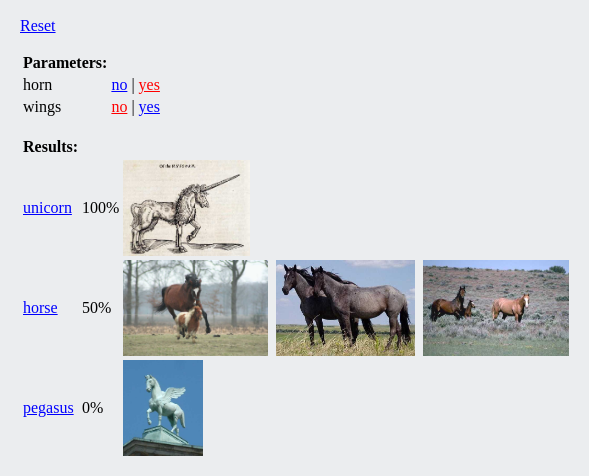
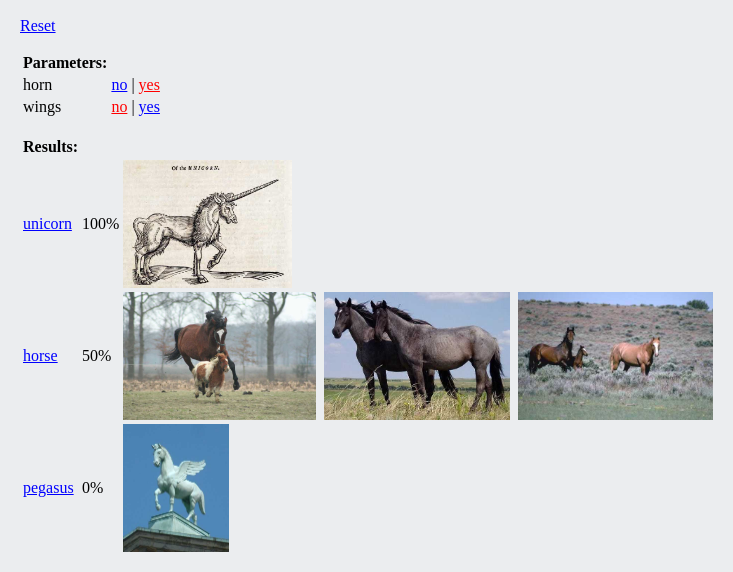
Update translation and style

diff --git a/examples/horse/rank_pages/subpage/0.html b/examples/horse/rank_pages/subpage/0.html
@@ -24,20 +24,20 @@ Project is distributed under the BSD 3-Clause license.
 <tr> <td>link</td> <td><a href="https://en.wikipedia.org/wiki/Horse">https://en.wikipedia.org/wiki/Horse</a></td> </tr>
 </table>
 </div>
-<div class="photosgallery">
+<div class="photosgallery bottomspace">
 <div class="photostitle">Photos:</div>
 <div class="imgtile">
-    <img src="/media/hdd-stuff/home/bob/Stuff/python/rank-page-generator/examples/horse/rank_pages/img/horse/Horse-and-pony.jpeg">
+    <img src="../img/horse/Horse-and-pony.jpeg">
     <div class="license"><div>License:</div><a href="https://commons.wikimedia.org/wiki/File:Horse-and-pony.jpg">arjecahn on flickr.</a>, <a href="https://creativecommons.org/licenses/by/2.0">CC BY 2.0</a>, via Wikimedia Commons
 </div>
 </div>
 <div class="imgtile">
-    <img src="/media/hdd-stuff/home/bob/Stuff/python/rank-page-generator/examples/horse/rank_pages/img/horse/Nokota_Horses_cropped.jpeg">
+    <img src="../img/horse/Nokota_Horses_cropped.jpeg">
     <div class="license"><div>License:</div><a href="https://commons.wikimedia.org/wiki/File:Nokota_Horses_cropped.jpg">Nokota_Horses.jpg: François Marchalderivative work: Dana boomer</a>, <a href="https://creativecommons.org/licenses/by-sa/2.5">CC BY-SA 2.5</a>, via Wikimedia Commons
 </div>
 </div>
 <div class="imgtile">
-    <img src="/media/hdd-stuff/home/bob/Stuff/python/rank-page-generator/examples/horse/rank_pages/img/horse/Horsescd1l-095.jpeg">
+    <img src="../img/horse/Horsescd1l-095.jpeg">
     <div class="license"><div>License:</div><a href="https://commons.wikimedia.org/wiki/File:Horsescd1l-095.jpg">Bureau of Land Management, Office of Public Affairs</a>, Public domain, via Wikimedia Commons
 </div>
 </div>

diff --git a/examples/furniture/rank_pages/index.html b/examples/furniture/rank_pages/index.html
@@ -12,7 +12,7 @@ const ANSWER_COLUMN = "name";
 const VALUES_DICT = {'num_of_legs': [3, 4], 'back': ['no', 'yes'], 'name': ['chair', 'stool', 'table']};
 const DETAILS_PAGE = {'table': 'pages/0.html', 'chair': 'pages/1.html', 'stool': 'pages/2.html'};
 const WEIGHTS_DICT = {'table': {'num_of_legs': {3: 0.0, 4: 1.0}, 'back': {'no': 1.0, 'yes': 0.0}}, 'chair': {'num_of_legs': {3: 0.0, 4: 1.0}, 'back': {'no': 0.0, 'yes': 1.0}}, 'stool': {'num_of_legs': {3: 1.0, 4: 0.0}, 'back': {'no': 1.0, 'yes': 0.0}}};
-const TRANSLATION_DICT = {'Reset': '-Reset-', 'Parameters': '-Parameters-', 'Results': '-Results-', 'filterseparator': '#', 'Back to Filters': '-Back to Filters-', 'Prev': '-Prev-', 'Next': '-Next-', 'Parameter': '-Parameter-', 'Value': '-Value-', 'empty': '-empty-'};
+const TRANSLATION_DICT = {'Reset': '-Reset-', 'Parameters': '-Parameters-', 'Results': '-Results-', 'filterseparator': '#', 'Back to Filters': '-Back to Filters-', 'Prev': '-Prev-', 'Next': '-Next-', 'Parameter': '-Parameter-', 'Value': '-Value-', 'empty': '-empty-', 'Photos': '-Photos-', 'License': '-License-'};
 const PHOTOS_DICT = {};
 </script>
 

diff --git a/examples/horse/rank_pages/subpage/2.html b/examples/horse/rank_pages/subpage/2.html
@@ -24,10 +24,10 @@ Project is distributed under the BSD 3-Clause license.
 <tr> <td>link</td> <td><a href="https://en.wikipedia.org/wiki/Pegasus">https://en.wikipedia.org/wiki/Pegasus</a></td> </tr>
 </table>
 </div>
-<div class="photosgallery">
+<div class="photosgallery bottomspace">
 <div class="photostitle">Photos:</div>
 <div class="imgtile">
-    <img src="/media/hdd-stuff/home/bob/Stuff/python/rank-page-generator/examples/horse/rank_pages/img/pegasus/Pegaz_Opera_Poznan.jpg">
+    <img src="../img/pegasus/Pegaz_Opera_Poznan.jpg">
     <div class="license"><div>License:</div><a href="https://commons.wikimedia.org/wiki/File:Pegaz_Opera_Pozna%C5%84.jpg">user:Radomil</a>, <a href="http://creativecommons.org/licenses/by-sa/3.0/">CC BY-SA 3.0</a>, via Wikimedia Commons
 </div>
 </div>

diff --git a/examples/horse/rank_pages/subpage/1.html b/examples/horse/rank_pages/subpage/1.html
@@ -24,10 +24,10 @@ Project is distributed under the BSD 3-Clause license.
 <tr> <td>link</td> <td><a href="https://en.wikipedia.org/wiki/Unicorn">https://en.wikipedia.org/wiki/Unicorn</a></td> </tr>
 </table>
 </div>
-<div class="photosgallery">
+<div class="photosgallery bottomspace">
 <div class="photostitle">Photos:</div>
 <div class="imgtile">
-    <img src="/media/hdd-stuff/home/bob/Stuff/python/rank-page-generator/examples/horse/rank_pages/img/unicorn/Oftheunicorn.jpg">
+    <img src="../img/unicorn/Oftheunicorn.jpg">
     <div class="license"><div>License:</div><a href="https://commons.wikimedia.org/wiki/File:Oftheunicorn.jpg">Special Collections, University of Houston Libraries</a>, Public domain, via Wikimedia Commons
 </div>
 </div>

diff --git a/examples/furniture/rank_pages/styles.css b/examples/furniture/rank_pages/styles.css
@@ -21,7 +21,7 @@ body {
     color: red !important;
 }
 .miniphoto img {
-	height: 96px;
+	height: 128px;
 	margin-right: 8px;
 }
 
@@ -32,8 +32,12 @@ body {
 .empty {
     color: red;
 }
+.photosgallery {
+	float: left;
+}
 .photostitle {
 	font-weight: bold;
+	margin-bottom: 4px;
 }
 .imgtile {
     width: 512px;

diff --git a/examples/horse/rank_pages/styles.css b/examples/horse/rank_pages/styles.css
@@ -21,7 +21,7 @@ body {
     color: red !important;
 }
 .miniphoto img {
-	height: 96px;
+	height: 128px;
 	margin-right: 8px;
 }
 
@@ -32,8 +32,12 @@ body {
 .empty {
     color: red;
 }
+.photosgallery {
+	float: left;
+}
 .photostitle {
 	font-weight: bold;
+	margin-bottom: 4px;
 }
 .imgtile {
     width: 512px;

diff --git a/examples/simple/rank_pages/styles.css b/examples/simple/rank_pages/styles.css
@@ -21,7 +21,7 @@ body {
     color: red !important;
 }
 .miniphoto img {
-	height: 96px;
+	height: 128px;
 	margin-right: 8px;
 }
 
@@ -32,8 +32,12 @@ body {
 .empty {
     color: red;
 }
+.photosgallery {
+	float: left;
+}
 .photostitle {
 	font-weight: bold;
+	margin-bottom: 4px;
 }
 .imgtile {
     width: 512px;

diff --git a/src/rankpagegenerator/data/styles.css b/src/rankpagegenerator/data/styles.css
@@ -21,7 +21,7 @@ body {
     color: red !important;
 }
 .miniphoto img {
-	height: 96px;
+	height: 128px;
 	margin-right: 8px;
 }
 
@@ -32,8 +32,12 @@ body {
 .empty {
     color: red;
 }
+.photosgallery {
+	float: left;
+}
 .photostitle {
 	font-weight: bold;
+	margin-bottom: 4px;
 }
 .imgtile {
     width: 512px;

diff --git a/src/rankpagegenerator/generator/jsgen.py b/src/rankpagegenerator/generator/jsgen.py
@@ -162,7 +162,7 @@ def generate_details_pages(data_loader: DataLoader, nophotos, output_path):
 
         photos_content = ""
         if not nophotos:
-            photos_content = generate_details_photos_content(data_loader, answer_value)
+            photos_content = generate_details_photos_content(data_loader, answer_value, out_pages_path)
 
         content = f"""<html>
 {HTML_LICENSE}
@@ -196,7 +196,7 @@ def generate_details_pages(data_loader: DataLoader, nophotos, output_path):
     return ret_dict
 
 
-def generate_details_photos_content(data_loader: DataLoader, answer_value):
+def generate_details_photos_content(data_loader: DataLoader, answer_value, out_pages_path):
     photos_data = data_loader.photos_dict
     if photos_data is None:
         return ""
@@ -204,18 +204,21 @@ def generate_details_photos_content(data_loader: DataLoader, answer_value):
     if img_list is None:
         return ""
     content = ""
-    content += """<div class="photosgallery">\n"""
-    content += """<div class="photostitle">Photos:</div>\n"""
+    content += """<div class="photosgallery bottomspace">\n"""
+    content += f"""<div class="photostitle">{data_loader.get_translation("Photos")}:</div>\n"""
     for img_src, img_dest in img_list:
+        img_rel_path = os.path.relpath(img_dest, out_pages_path)
         license_path = img_src + ".lic"
         license_content = ""
         if os.path.isfile(license_path):
             license_content = read_data(license_path)
-            license_content = f"""<div class="license"><div>License:</div>{license_content}</div>"""
+            license_content = (
+                f"""<div class="license"><div>{data_loader.get_translation("License")}:</div>{license_content}</div>"""
+            )
         else:
             _LOGGER.warning("unable to find license file for image %s", img_src)
         content += """<div class="imgtile">\n"""
-        content += f"""    <img src="{img_dest}">\n"""
+        content += f"""    <img src="{img_rel_path}">\n"""
         content += f"""    {license_content}\n"""
         content += """</div>\n"""
     content += "</div>"
